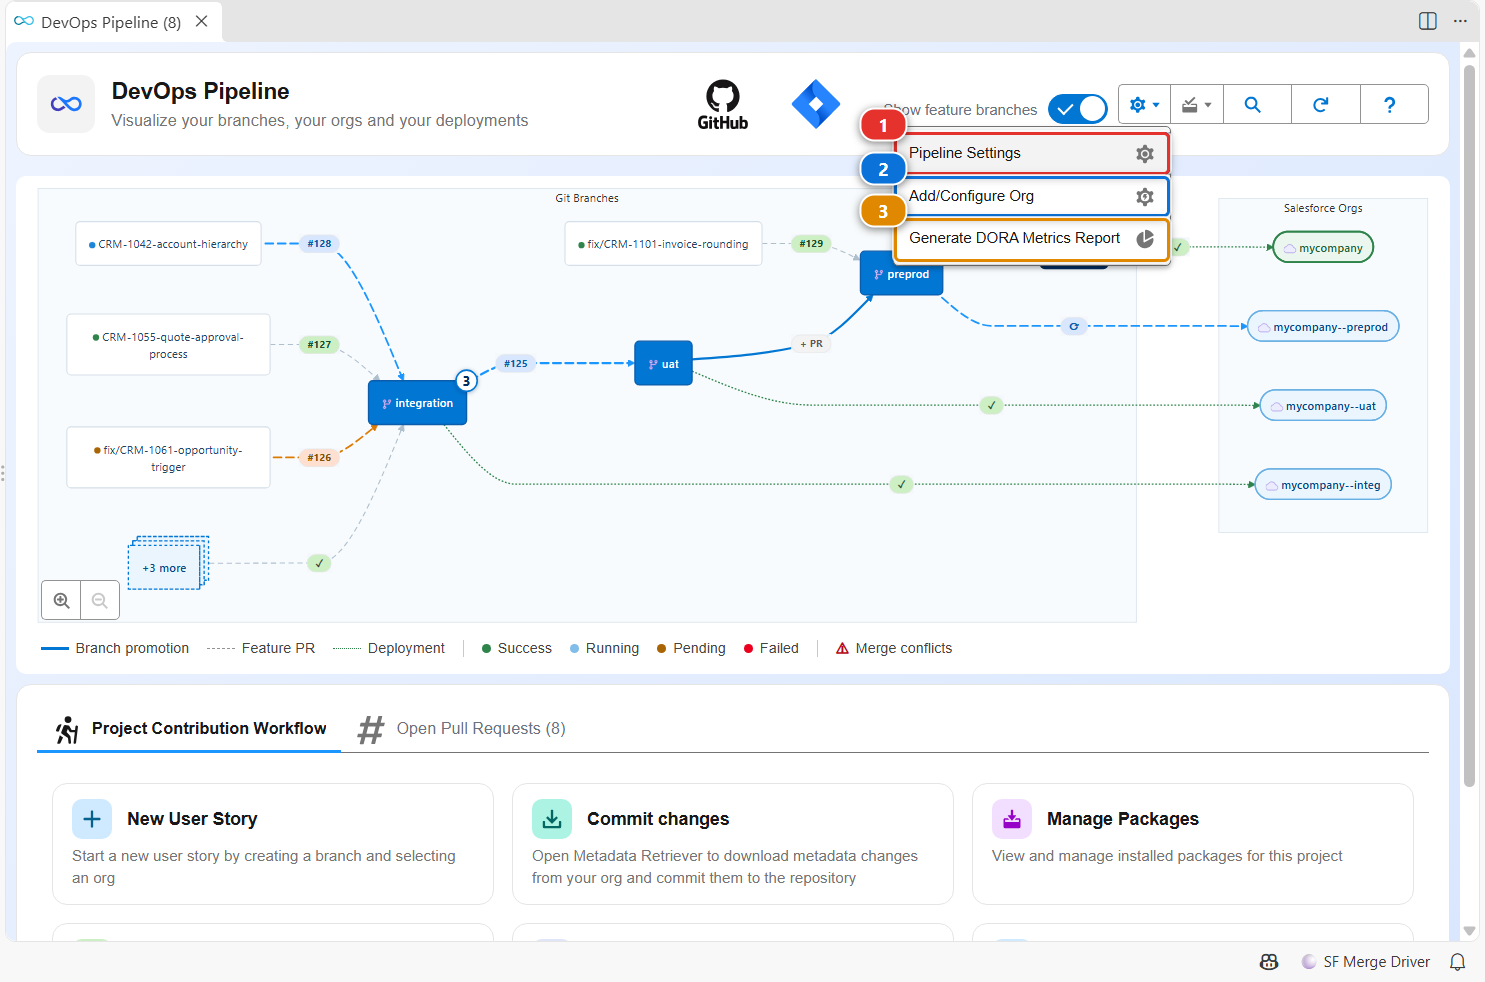
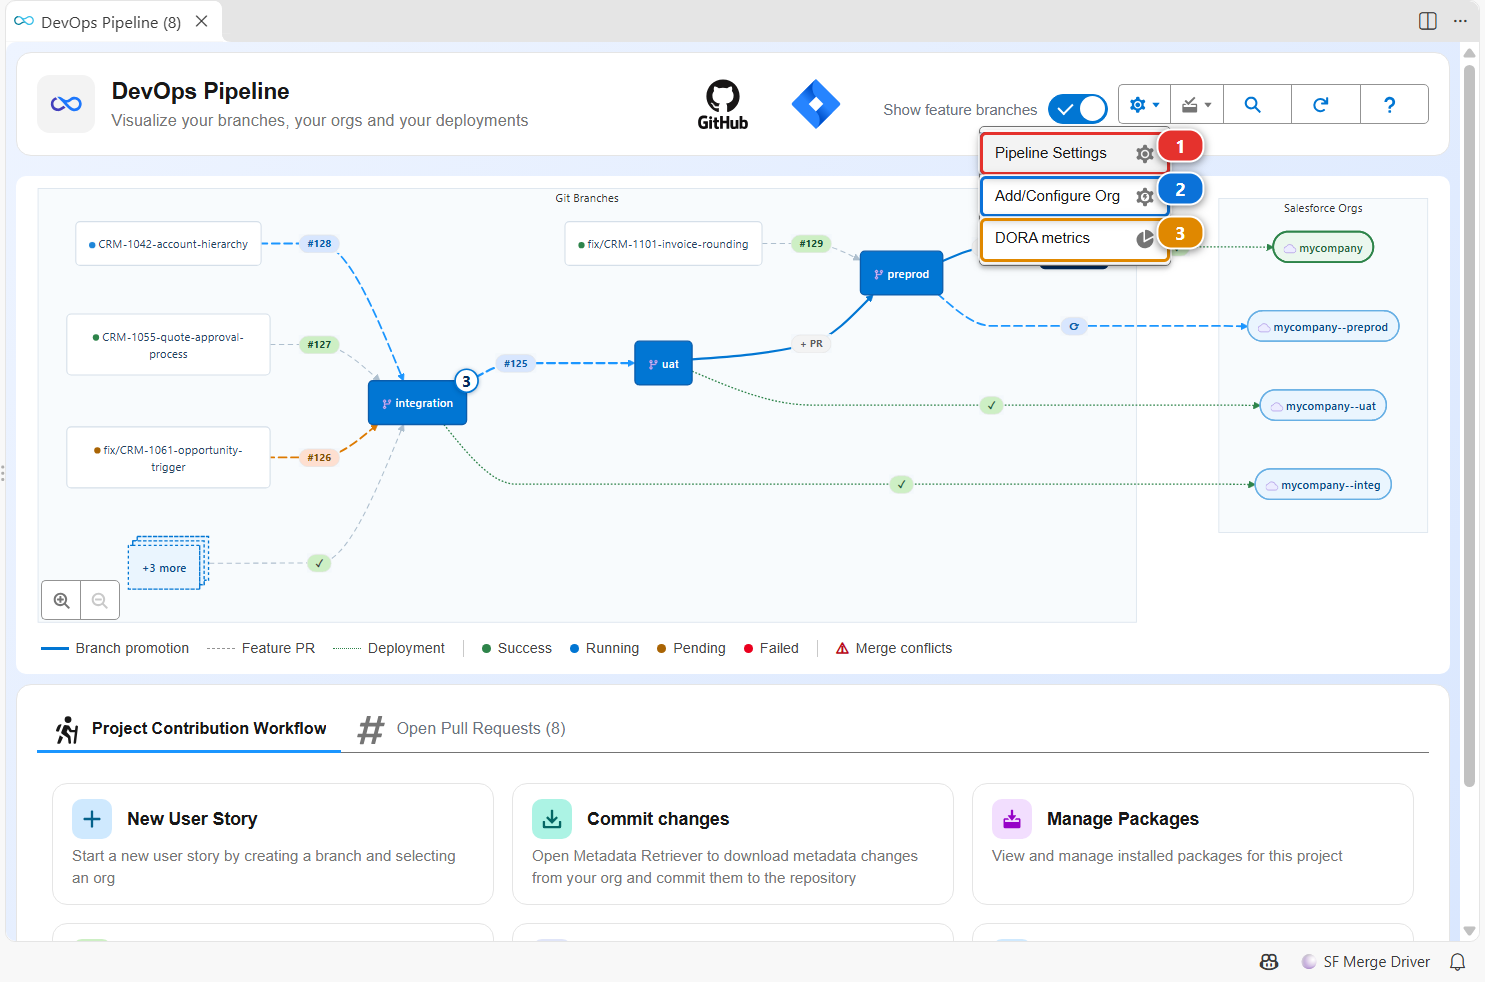
docs(dora): the DORA metrics panel in the guides, menu capture with the renamed entry
Also removes a log line naming a ticket fallback the command no longer has.

Changed region(s): [[0.5576, 0.0916, 0.7434, 0.2749], [0.7744, 0.1222, 0.8364, 0.2749], [0.3098, 0.3666, 0.3407, 0.3971]]

diff --git a/src/commands/hardis/doc/dora-report.ts b/src/commands/hardis/doc/dora-report.ts
@@ -310,7 +310,7 @@ The free [Salesforce DevOps with sfdx-hardis](https://sfdx-hardis-training.githu
       }
       return tickets;
     } catch {
-      uxLog("log", this, c.grey(`[DORA] ${t("doraReportNoTicketProvider")}`));
+      // No ticketing configured, or it does not answer: the table only loses its Tickets column content
       return [];
     }
   }

diff --git a/docs/hardis/doc/salesforce-devops-dora-report.md b/docs/hardis/doc/salesforce-devops-dora-report.md
@@ -12,6 +12,10 @@ Command: **[sf hardis:doc:dora-report](https://sfdx-hardis.cloudity.com/hardis/d
 
 In VS Code, open the **DORA metrics** panel from the gear menu of the [DevOps Pipeline](../../vscode-extension-devops-pipeline.md): one tab per major org, an overview comparing them, and the contributors.
 
+![DORA metrics panel of the VS Code extension, overview of every major org](../../assets/images/dora-metrics-panel.png)
+
+![DORA metrics panel, tab of one major org](../../assets/images/dora-metrics-panel-org.png)
+
 ---
 
 ### What it measures
